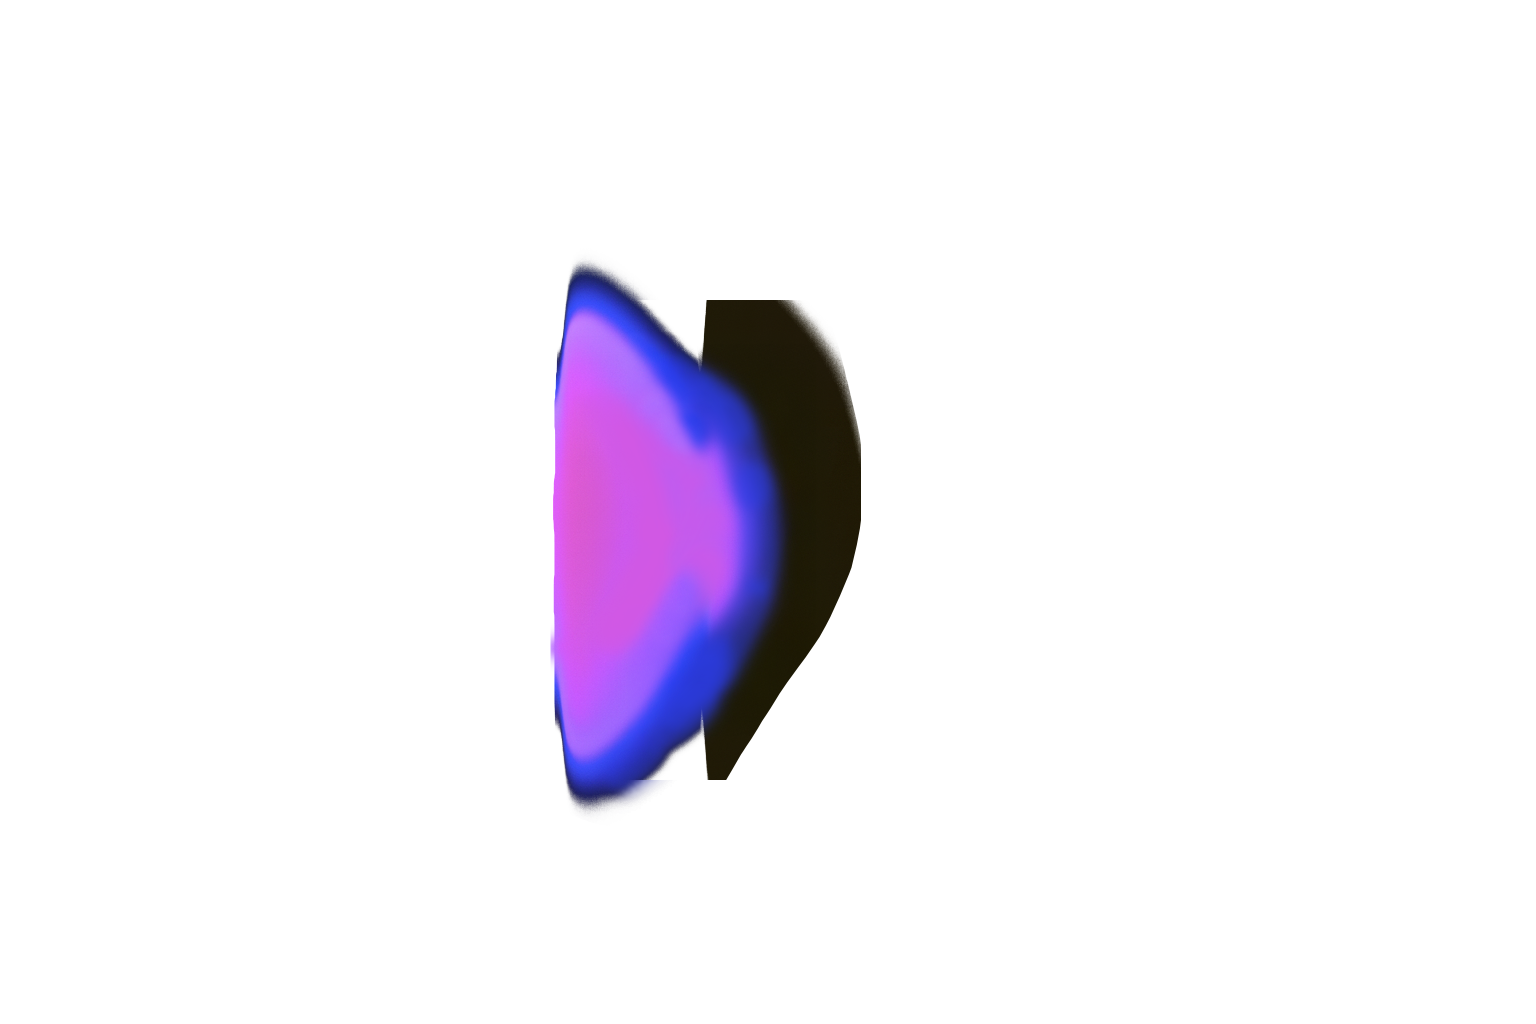
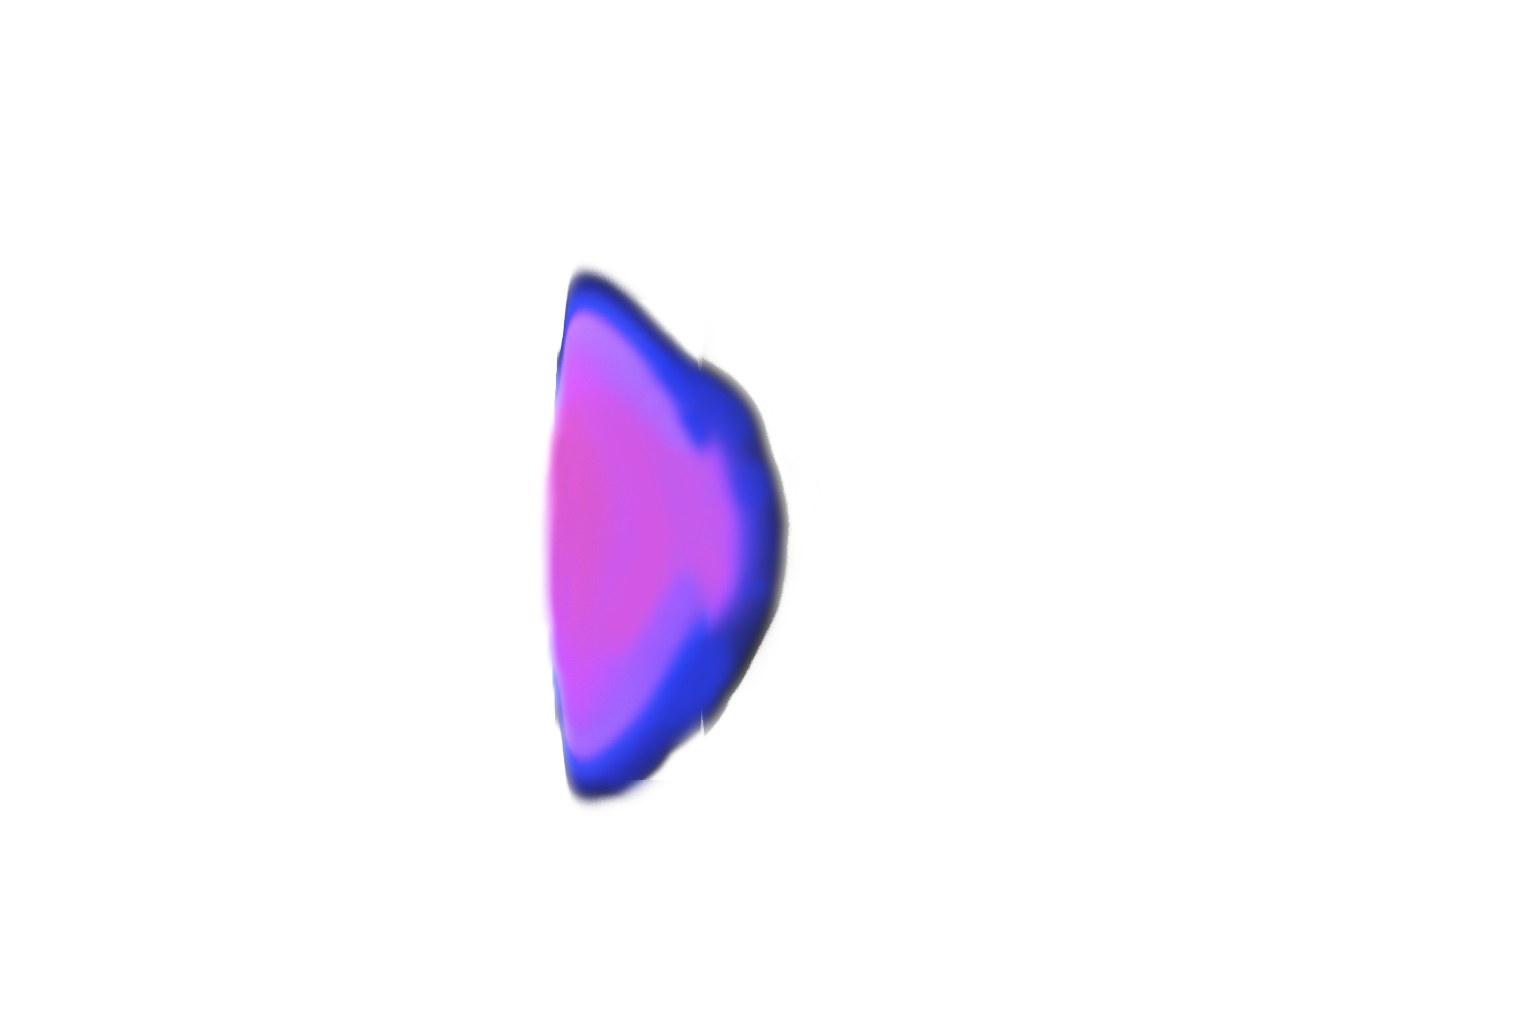
update darts-image, minor changes

Changed region(s): [[0.3438, 0.2812, 0.5625, 0.8125], [0.3438, 0.3438, 0.375, 0.625], [0.375, 0.25, 0.4062, 0.2812]]

diff --git a/randomizers/ghent-pos-roulette/js/ui.js b/randomizers/ghent-pos-roulette/js/ui.js
@@ -1,13 +1,25 @@
 export function setupUI(onSpin) {
-  const button = document.getElementById('spinButton');
+  const button = document.querySelector('#spinButton');
   button.addEventListener('click', onSpin);
+  window.addEventListener('keydown', (e) => {
+    if (e.key === ' ' || e.key === 'Enter') {
+      e.preventDefault();
+      if (!button.disabled) {
+        onSpin();
+      } 
+    }
+  });
+
+  
+
+
 
   const latSlot = document.querySelector('#latSlot .roulette__slot-value');
   const lngSlot = document.querySelector('#lngSlot .roulette__slot-value');
   const result = document.querySelector('#result');
   const link = document.querySelector('#gmapsLink');
-  const copyButton = document.getElementById('copyButton');
-  const copyText = document.getElementById('copyText');
+  const copyButton = document.querySelector('#copyButton');
+  const copyText = document.querySelector('#copyText');
   copyButton.addEventListener('click', () => {
     const lat = latSlot.textContent;
     const lng = lngSlot.textContent;
@@ -45,7 +57,7 @@ export function setupUI(onSpin) {
     updateSlot(finalCoord[0], finalCoord[1]);
     link.href = `https://maps.google.com/?q=${finalCoord[0]},${finalCoord[1]}`;
     result.classList.remove('hidden');
-  }
+  } 
 
   return {
     startRolling,

diff --git a/randomizers/ghent-pos-roulette/css/main.css b/randomizers/ghent-pos-roulette/css/main.css
@@ -56,27 +56,31 @@ body,
     left: 50%;
     transform: translateX(-50%);
     z-index: 1000;
-    background: rgba(255, 255, 255, 0.7);
+    background: rgba(255, 255, 255, 0.01);
     border-radius: 16px;
     /* box-shadow: 0 4px 24px var(--light-coral); */
     padding: 24px 32px 18px 32px;
-    backdrop-filter: blur(12px);
-    -webkit-backdrop-filter: blur(12px);
+    backdrop-filter: blur(2px);
+    -webkit-backdrop-filter: blur(2px);
+    /* border: #0000001a 1px solid; */
+    box-shadow: inset 0 0 0 1px #ffffff1a;
     display: flex;
     flex-direction: column;
     align-items: center;
     min-width: 320px;
-    border: none;
+    /* border: none; */
 }
 
 /* Top controls position */
 .roulette__controls--top {
     top: 0;
+    border-radius: 0 0 16px 16px;
 }
 
 /* Bottom controls position */
 .roulette__controls--bottom {
     bottom: 0;
+    border-radius: 16px 16px 0 0;
 }
 
 /* Slot display */
@@ -158,9 +162,13 @@ body,
     box-shadow: none;
 }
 
+.roulette__result {
+    transition: opacity .7s;
+}
+
 /* Result hidden */
 .roulette__result.hidden {
-    display: none;
+    opacity: 0;
 }
 
 /* Google Maps link */

diff --git a/randomizers/ghent-pos-roulette/index.html b/randomizers/ghent-pos-roulette/index.html
@@ -31,7 +31,7 @@
     <div id="bottom-controls" class="roulette__controls roulette__controls--bottom">
         <button id="spinButton" class="roulette__spin-button">Start!</button>
         <div id="result" class="roulette__result hidden">
-            <a id="gmapsLink" class="roulette__gmaps-link" href="#" target="_blank">View on Google Maps</a>
+            <a id="gmapsLink" class="roulette__gmaps-link" href="#" target="_blank">Google Maps</a>
             <button id="copyButton" class="roulette__copy-button">
                 <span id="copyText" class="roulette__copy-text">Copy Lat/Lng</span>
             </button>

diff --git a/randomizers/ghent-pos-roulette/js/map.js b/randomizers/ghent-pos-roulette/js/map.js
@@ -19,7 +19,7 @@ export function initMap() {
 export function showMarker([lat, lng]) {
   if (marker) marker.remove();
   marker = L.marker([lat, lng], { icon: dartIcon }).addTo(map);
-  L.circle([lat, lng], { radius: 75, color: Palette.smokyBlack, fillOpacity: 0.2 }).addTo(map);
+  L.circle([lat, lng], { radius: 75, color: Palette.heliotrope, fillOpacity: 0.1 }).addTo(map);
   map.setView([lat, lng], 20, { animate: true });
 
 }

diff --git a/css/main.css b/css/main.css
@@ -10,6 +10,7 @@ body {
      justify-content: center;
      height: 100vh;
      margin: 0;
+     overflow: hidden;
 }
 
 h1 {
